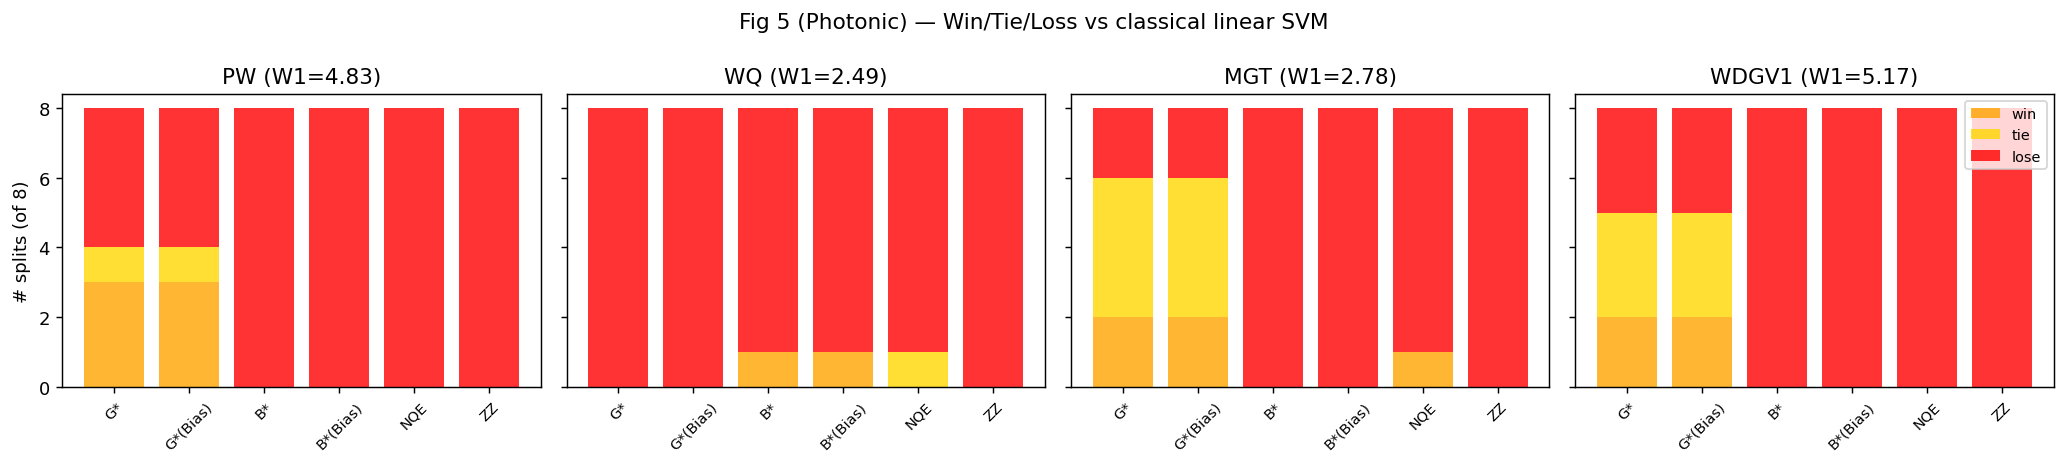
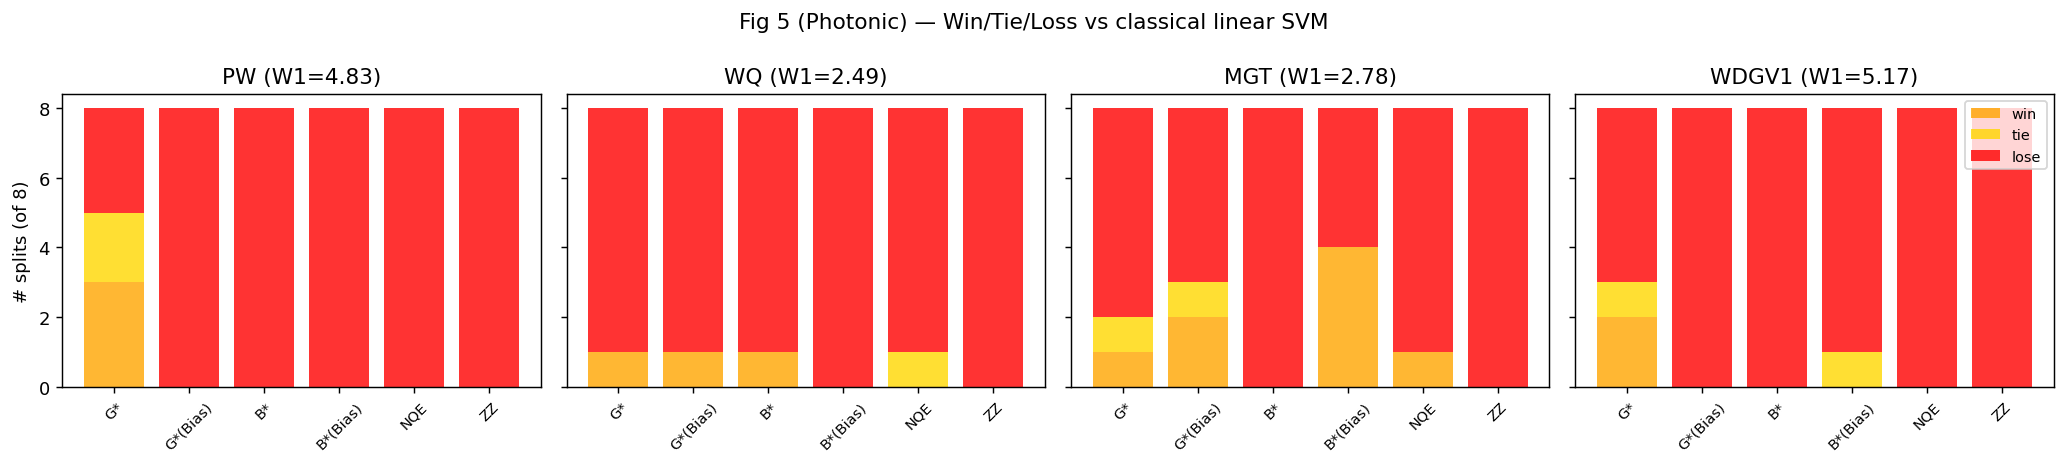
New bias understanding, still noty good enough

diff --git a/papers/EGAS/lib/photonic_circuits.py b/papers/EGAS/lib/photonic_circuits.py
@@ -57,6 +57,7 @@ def create_perceval_circuit(
 
 def create_quantum_module(
     sequence,
+    num_features: int,
     n_modes: int,
     num_photons: int = 2,
     computation_space: ml.ComputationSpace = ml.ComputationSpace.UNBUNCHED,
@@ -68,24 +69,53 @@ def create_quantum_module(
     ps_data_indices = [data_idx for gate, _, data_idx, _ in sequence if gate == "PS"]
     ps_r_factors = [r for gate, _, _, r in sequence if gate == "PS"]
 
+    class BiasMLP(nn.Module):
+        """MLP whose initial output is identically zero."""
+
+        def __init__(
+            self,
+            n_in: int,
+            n_biases: int,
+            hidden: int = 32,
+            gain: float = 10.0,
+        ):
+            super().__init__()
+
+            self.net = nn.Sequential(
+                nn.Linear(n_in, hidden),
+                nn.Tanh(),
+                nn.Linear(hidden, hidden),
+                nn.Tanh(),
+                nn.Linear(hidden, n_biases),
+            )
+
+            # Zero-initialize the output layer
+            nn.init.zeros_(self.net[-1].weight)
+            nn.init.zeros_(self.net[-1].bias)
+
+            self.gain = gain
+
+        def forward(self, X: torch.Tensor) -> torch.Tensor:
+            return self.gain * self.net(X.to(torch.float32))
+
     class QuantumModule(nn.Module):
         def __init__(self):
             super().__init__()
             self.ps_data_indices = ps_data_indices
             self.ps_r_factors = torch.tensor(ps_r_factors, dtype=torch.float32)
             self.layer = ml.QuantumLayer(
-                input_size=len(input_parameters),
+                input_size=2 * len(input_parameters),
                 circuit=circuit,
                 n_photons=num_photons,
-                trainable_parameters=["phi"] if len(trainable_parameters) > 0 else [],
-                input_parameters=["theta"] if len(input_parameters) > 0 else [],
+                input_parameters=["theta", "phi"] if len(input_parameters) > 0 else [],
                 measurement_strategy=ml.MeasurementStrategy.amplitudes(
                     computation_space=computation_space
                 ),
             )
-            # Initialize all trainable parameters to 0
-            for param in self.layer.parameters():
-                param.data.fill_(0.0)
+            self.bias = BiasMLP(
+                n_in=num_features,
+                n_biases=len(input_parameters),
+            )
 
         def forward(self, x: torch.Tensor) -> torch.Tensor:
             if len(self.ps_data_indices) > 0:
@@ -94,9 +124,9 @@ def create_quantum_module(
                         "Input feature width is too small for the PS data indices in "
                         "the sequence."
                     )
-                layer_input = x[..., self.ps_data_indices]
-                # Multiply each input by the corresponding r factor
-                layer_input = layer_input * self.ps_r_factors
+                theta = x[..., self.ps_data_indices] * self.ps_r_factors
+                phi = self.bias(x)
+                layer_input = torch.cat([theta, phi], dim=-1)
                 return self.layer(layer_input)
             else:
                 # No input parameters needed, create empty input with batch size

diff --git a/papers/EGAS/lib/photonic_bias.py b/papers/EGAS/lib/photonic_bias.py
@@ -14,10 +14,32 @@ from __future__ import annotations
 import merlin as ml
 import numpy as np
 import torch
+import torch.nn as nn
 
 from .egas import pairwise_energy
 from .photonic_circuits import create_quantum_module
 from .statevec import fidelity_matrix
+
+
+class GlobalBiasMLP(nn.Module):
+    def __init__(self, n_biases, hidden=32):
+        super().__init__()
+
+        self.latent = nn.Parameter(torch.zeros(1))
+
+        self.net = nn.Sequential(
+            nn.Linear(1, hidden),
+            nn.Tanh(),
+            nn.Linear(hidden, hidden),
+            nn.Tanh(),
+            nn.Linear(hidden, n_biases),
+        )
+
+        nn.init.zeros_(self.net[-1].weight)
+        nn.init.zeros_(self.net[-1].bias)
+
+    def forward(self):
+        return self.net(self.latent.unsqueeze(0)).squeeze(0)
 
 
 def _bce_pair_loss(states, labels, eps=1e-3):
@@ -43,6 +65,7 @@ def refine_bias(
     X,
     y,
     n_modes,
+    num_features,
     *,
     num_photons=2,
     computation_space=ml.ComputationSpace.UNBUNCHED,
@@ -69,11 +92,12 @@ def refine_bias(
 
     encoder = create_quantum_module(
         seq,
+        num_features=num_features,
         n_modes=n_modes,
         num_photons=num_photons,
         computation_space=computation_space,
     ).to(device)
-    trainable_parameters = [p for p in encoder.parameters() if p.requires_grad]
+    trainable_parameters = [p for p in encoder.bias.parameters() if p.requires_grad]
     if len(trainable_parameters) == 0:
         with torch.no_grad():
             # Evaluate with a single sample and replicate if no input indices
@@ -88,7 +112,7 @@ def refine_bias(
             E_before = pairwise_energy(states, yt).item()
         return encoder, E_before, E_before
 
-    opt = torch.optim.RMSprop(encoder.parameters(), lr=lr)
+    opt = torch.optim.RMSprop(encoder.bias.parameters(), lr=lr)
 
     with torch.no_grad():
         # Evaluate with a single sample and replicate if no input indices

diff --git a/papers/EGAS/lib/photonic_egas.py b/papers/EGAS/lib/photonic_egas.py
@@ -37,8 +37,9 @@ def pairwise_energy(states: torch.Tensor, labels: torch.Tensor) -> torch.Tensor:
     return loss[off].mean()
 
 
-def _create_encoder(seq, n_modes, num_photons=2, computation_space=None):
+def _create_encoder(seq, num_features, n_modes, num_photons=2, computation_space=None):
     kwargs = {
+        "num_features": num_features,
         "n_modes": n_modes,
         "num_photons": num_photons,
     }
@@ -63,6 +64,7 @@ def evaluate_sequences(
         seq = [pool[int(t)] for t in seq_ids]
         encoder = _create_encoder(
             seq,
+            X.shape[-1],
             n_modes,
             num_photons=num_photons,
             computation_space=computation_space,
@@ -233,6 +235,7 @@ def refine_candidates(
     for sid in candidate_ids:
         seq = [pool[int(i)] for i in sid]
         kwargs = {
+            "num_features": X.shape[-1],
             "num_photons": num_photons,
             "device": device,
             **refine_kwargs,

diff --git a/papers/EGAS/tests/test_photonic_impl.py b/papers/EGAS/tests/test_photonic_impl.py
@@ -71,13 +71,10 @@ def test_create_quantum_module_uses_ps_data_indices_and_trainable_parameters():
     from lib.photonic_circuits import create_quantum_module
 
     sequence = [("PS", 0, 1, 0.3), ("PS", 1, 0, 0.5), ("PS_PI", 1, 0, 0.0)]
-    encoder = create_quantum_module(sequence, n_modes=2)
+    encoder = create_quantum_module(sequence, num_features=2, n_modes=2)
 
     assert encoder.ps_data_indices == [1, 0]
-    assert encoder.layer.input_size == 2
-
-    trainable_params = [p for p in encoder.layer.parameters() if p.requires_grad][0]
-    assert trainable_params.numel() == 2
+    assert encoder.layer.input_size == 4
 
     x = torch.randn(3, 2, dtype=torch.float32)
     states = encoder(x)
@@ -117,6 +114,7 @@ def test_refine_bias_returns_same_energy_when_no_trainable_parameters():
         sequence,
         X,
         y,
+        num_features=4,
         n_modes=3,
         num_photons=2,
         computation_space=ml.ComputationSpace.UNBUNCHED,

diff --git a/papers/EGAS/lib/runner.py b/papers/EGAS/lib/runner.py
@@ -134,6 +134,7 @@ def _run_photonic_eval(cfg, run_dir, logger):
             seq = [pool[int(i)] for i in sid]
             encoder = create_quantum_module(
                 seq,
+                num_features=X.shape[1],
                 n_modes=n_modes,
                 num_photons=n_photons,
                 computation_space=computation_space,
